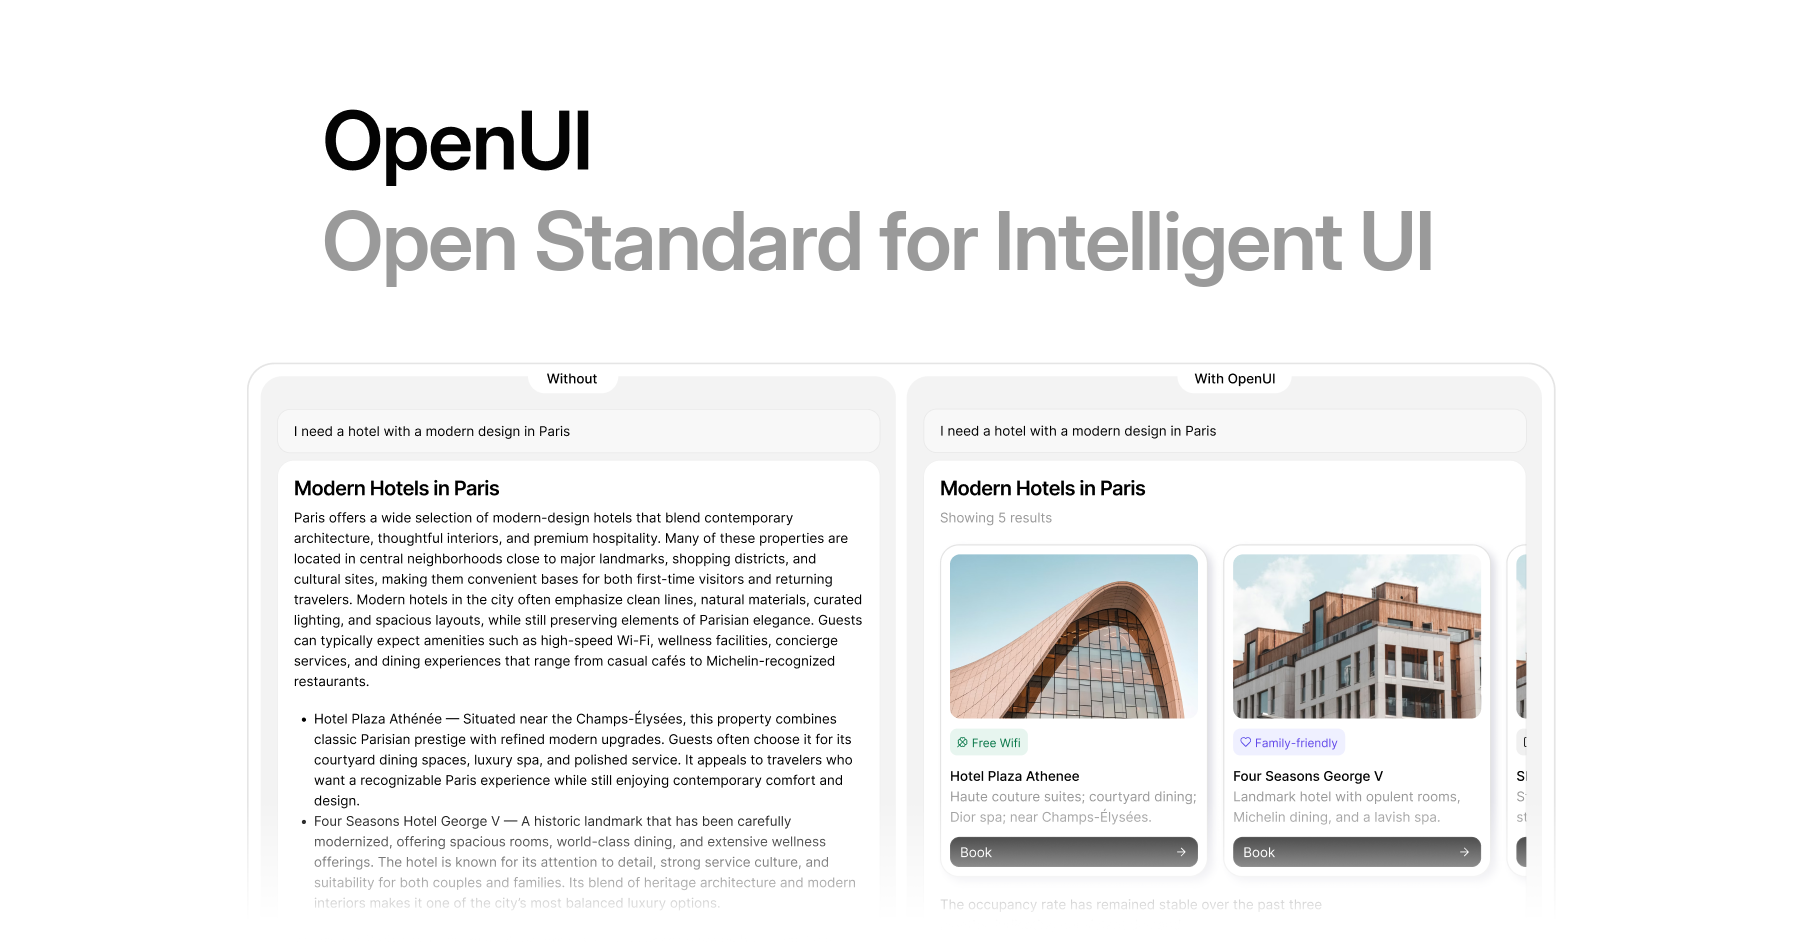
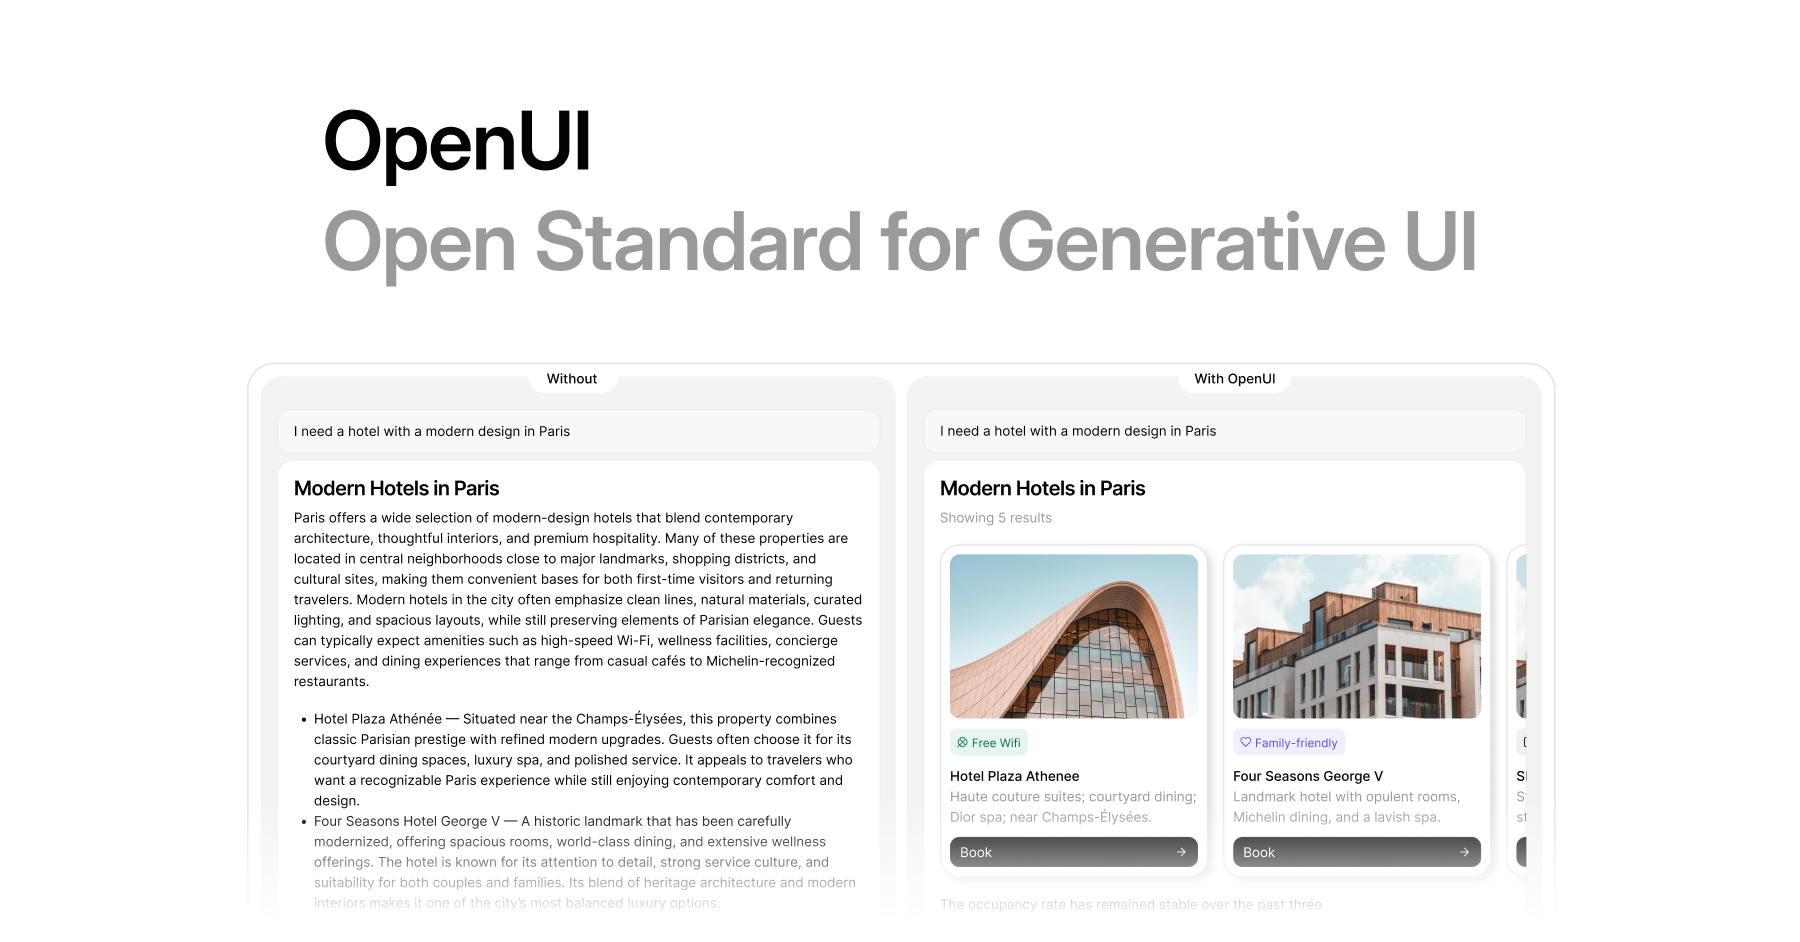
Revert "docs: update tagline to "The Open Standard for Intelligent UI" (#1320)" (#1424)
This reverts commit aadcbeb8e1da54820538f70a854ad0ef31cf2314.

Changed region(s): [[0.4978, 0.2155, 0.84, 0.3079]]

diff --git a/docs/app/(home)/page.tsx b/docs/app/(home)/page.tsx
@@ -49,7 +49,7 @@ const structuredData = {
       alternateName: "OpenUI by Thesys",
       url: BASE_URL,
       description:
-        "The open standard for Intelligent UI. Full-stack, framework-agnostic Generative UI built on OpenUI Lang, a streaming-first language with first-party runtimes for React, Vue, Svelte, and Angular.",
+        "Full-stack, framework-agnostic Generative UI built on OpenUI Lang, a streaming-first language with first-party runtimes for React, Vue, Svelte, and Angular.",
       applicationCategory: "DeveloperApplication",
       operatingSystem: "Cross-platform",
       license: "https://opensource.org/licenses/MIT",
@@ -96,7 +96,7 @@ export default function HomePage() {
         <HeroSection
           align="left"
           desktopFromTablet
-          subtitle="Open Standard for Intelligent UI"
+          subtitle="Open Standard for Generative UI"
           showPlaygroundButton={false}
           showTagline={false}
           commandTrailing={<AgentPicker command={AGENT_SETUP_PROMPT} />}

diff --git a/docs/app/layout.tsx b/docs/app/layout.tsx
@@ -26,7 +26,7 @@ const geistMono = Geist_Mono({
 
 const SITE_TITLE = SITE_NAME;
 const SITE_DESCRIPTION =
-  "OpenUI is the open standard for Intelligent UI. Full-stack, framework-agnostic Generative UI built on OpenUI Lang, a streaming-first language with first-party runtimes for React, Vue, Svelte, and Angular, and up to 67% fewer tokens than JSON.";
+  "Full-stack, framework-agnostic Generative UI built on OpenUI Lang, a streaming-first language with first-party runtimes for React, Vue, Svelte, and Angular, and up to 67% fewer tokens than JSON.";
 
 export const metadata: Metadata = {
   metadataBase: new URL(BASE_URL),
@@ -39,7 +39,6 @@ export const metadata: Metadata = {
   referrer: "origin-when-cross-origin",
   keywords: [
     "OpenUI",
-    "Intelligent UI",
     "Generative UI",
     "AI UI",
     "OpenUI Lang",

diff --git a/docs/app/llms.txt/route.ts b/docs/app/llms.txt/route.ts
@@ -5,7 +5,7 @@ export const dynamic = "force-static";
 export const revalidate = false;
 
 const SITE_DESCRIPTION =
-  "OpenUI is the open standard for Intelligent UI. Full-stack, framework-agnostic Generative UI built on OpenUI Lang, a streaming-first language with first-party runtimes for React, Vue, Svelte, and Angular, and up to 67% fewer tokens than JSON.";
+  "Full-stack, framework-agnostic Generative UI built on OpenUI Lang, a streaming-first language with first-party runtimes for React, Vue, Svelte, and Angular, and up to 67% fewer tokens than JSON.";
 
 export async function GET() {
   const pages = source.getPages().map((page) => {

diff --git a/docs/app/(home)/cloud/page.tsx b/docs/app/(home)/cloud/page.tsx
@@ -35,7 +35,7 @@ export const metadata: Metadata = {
     type: "website",
     images: [
       {
-        url: "/meta-image.png?v=20261008",
+        url: "/meta-image.png?v=20260725-1708",
         width: 1800,
         height: 942,
         alt: "OpenUI Cloud preview",
@@ -47,7 +47,7 @@ export const metadata: Metadata = {
     title: "OpenUI Cloud — Generative UI, ready for production",
     description:
       "The managed backend for production agent interfaces, powered by the open-source OpenUI rendering engine.",
-    images: ["/meta-image.png?v=20261008"],
+    images: ["/meta-image.png?v=20260725-1708"],
   },
 };
 

diff --git a/docs/lib/page-metadata.ts b/docs/lib/page-metadata.ts
@@ -1,7 +1,7 @@
 import type { Metadata } from "next";
 import { type OgImage, ogImageMetadata } from "./og/images";
 
-export const SITE_NAME = "OpenUI - The Open Standard for Intelligent UI";
+export const SITE_NAME = "OpenUI - The Open Standard for Generative UI";
 
 /** Site-wide card, used by the homepage and the blog index. */
 export const SITE_OPEN_GRAPH = {
@@ -9,7 +9,7 @@ export const SITE_OPEN_GRAPH = {
   siteName: SITE_NAME,
   images: [
     {
-      url: "/meta-image.png?v=20261008",
+      url: "/meta-image.png?v=20260725-1708",
       type: "image/png",
       width: 1800,
       height: 942,

diff --git a/docs/app/(home)/sections/HeroSection/HeroSection.tsx b/docs/app/(home)/sections/HeroSection/HeroSection.tsx
@@ -686,7 +686,7 @@ export function Tagline({ children, compact }: { children?: ReactNode; compact?:
 
 export function HeroSection({
   title = "OpenUI",
-  subtitle = "The Open Standard for Intelligent UI",
+  subtitle = "The Open Standard for Generative UI",
   command = primaryCTA,
   commandLabel,
   secondaryCommand,

diff --git a/docs/components/site-primary-nav.tsx b/docs/components/site-primary-nav.tsx
@@ -119,7 +119,7 @@ export const PRIMARY_SITE_NAV_ITEMS: NavItem[] = [
         children: [
           {
             title: "OpenUI",
-            description: "The open standard for Intelligent UI.",
+            description: "The open standard for generative UI.",
             href: "/",
           },
         ],

diff --git a/README.md b/README.md
@@ -3,13 +3,13 @@
 <a href="https://www.openui.com" target="_blank" rel="noopener noreferrer">
   <img 
     src="./assets/banner.png" 
-    alt="OpenUI - The Open Standard for Intelligent UI" 
+    alt="OpenUI - The Open Standard for Generative UI" 
     width="100%" 
     style="cursor: pointer;"
   >
 </a>
 
-# OpenUI - The Open Standard for Intelligent UI
+# OpenUI - The Open Standard for Generative UI
 
 <p align="center">
   <a href="https://github.com/thesysdev/openui/actions/workflows/build-js.yml"><img alt="Build" src="https://github.com/thesysdev/openui/actions/workflows/build-js.yml/badge.svg"></a>
